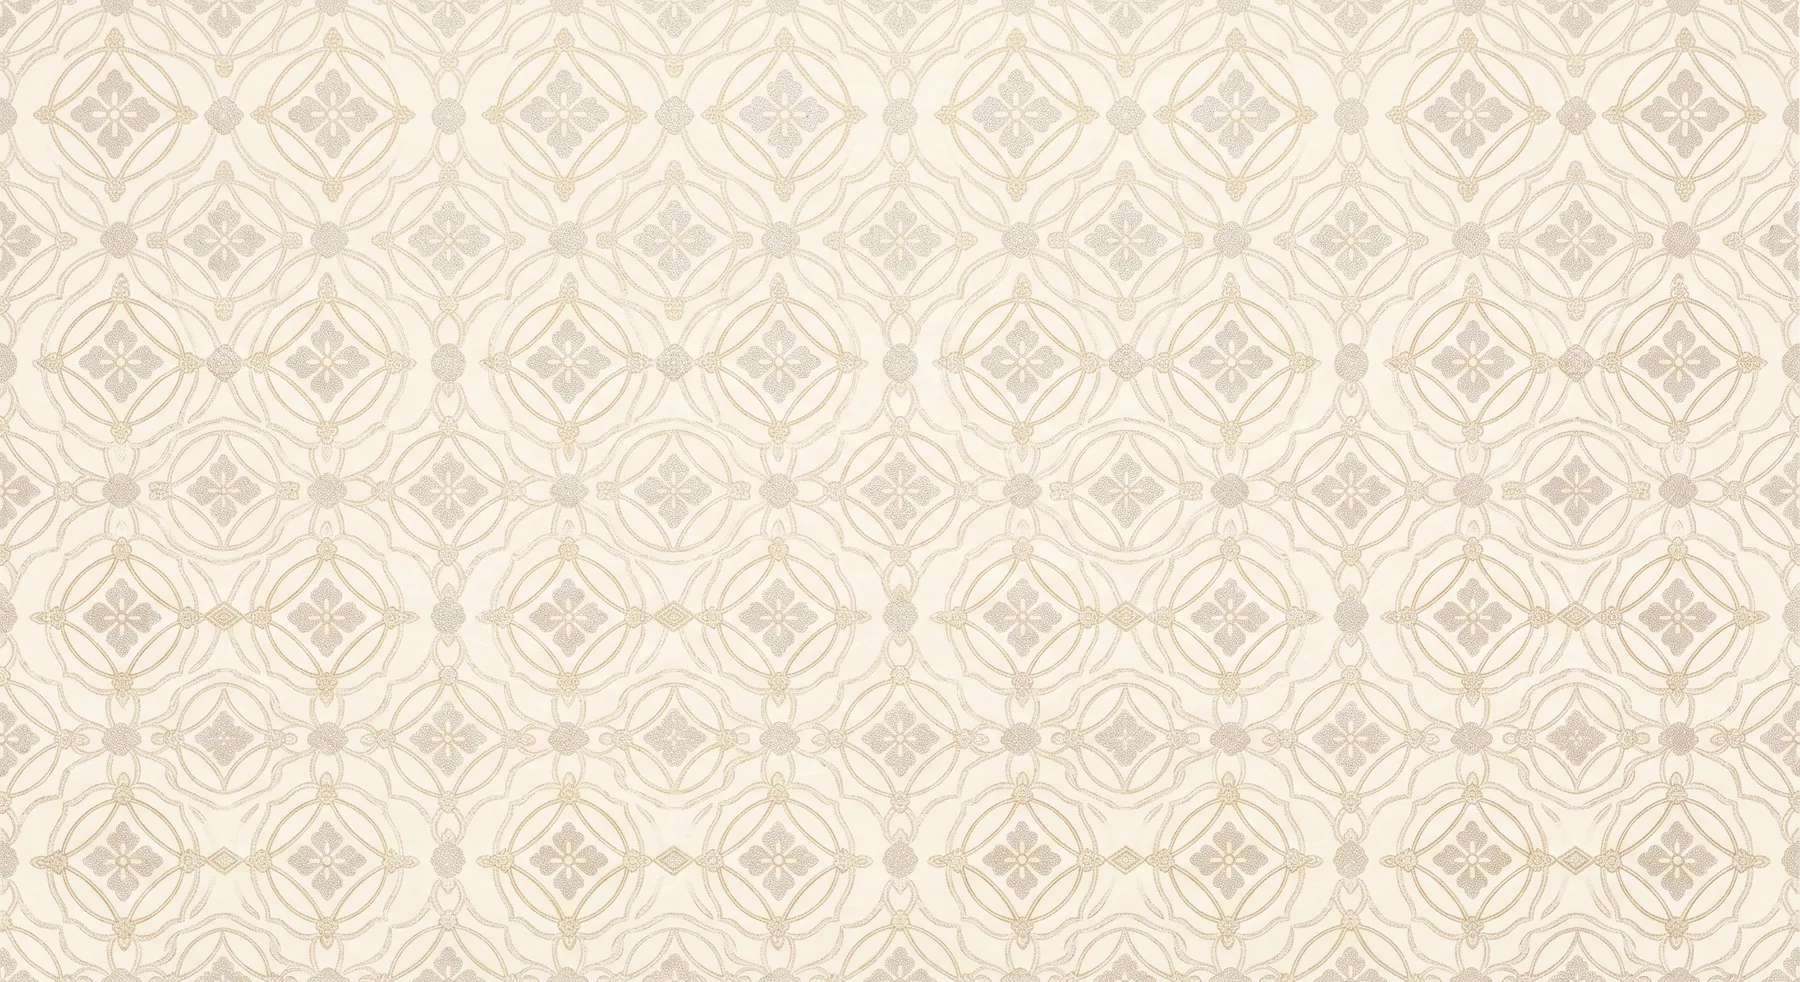
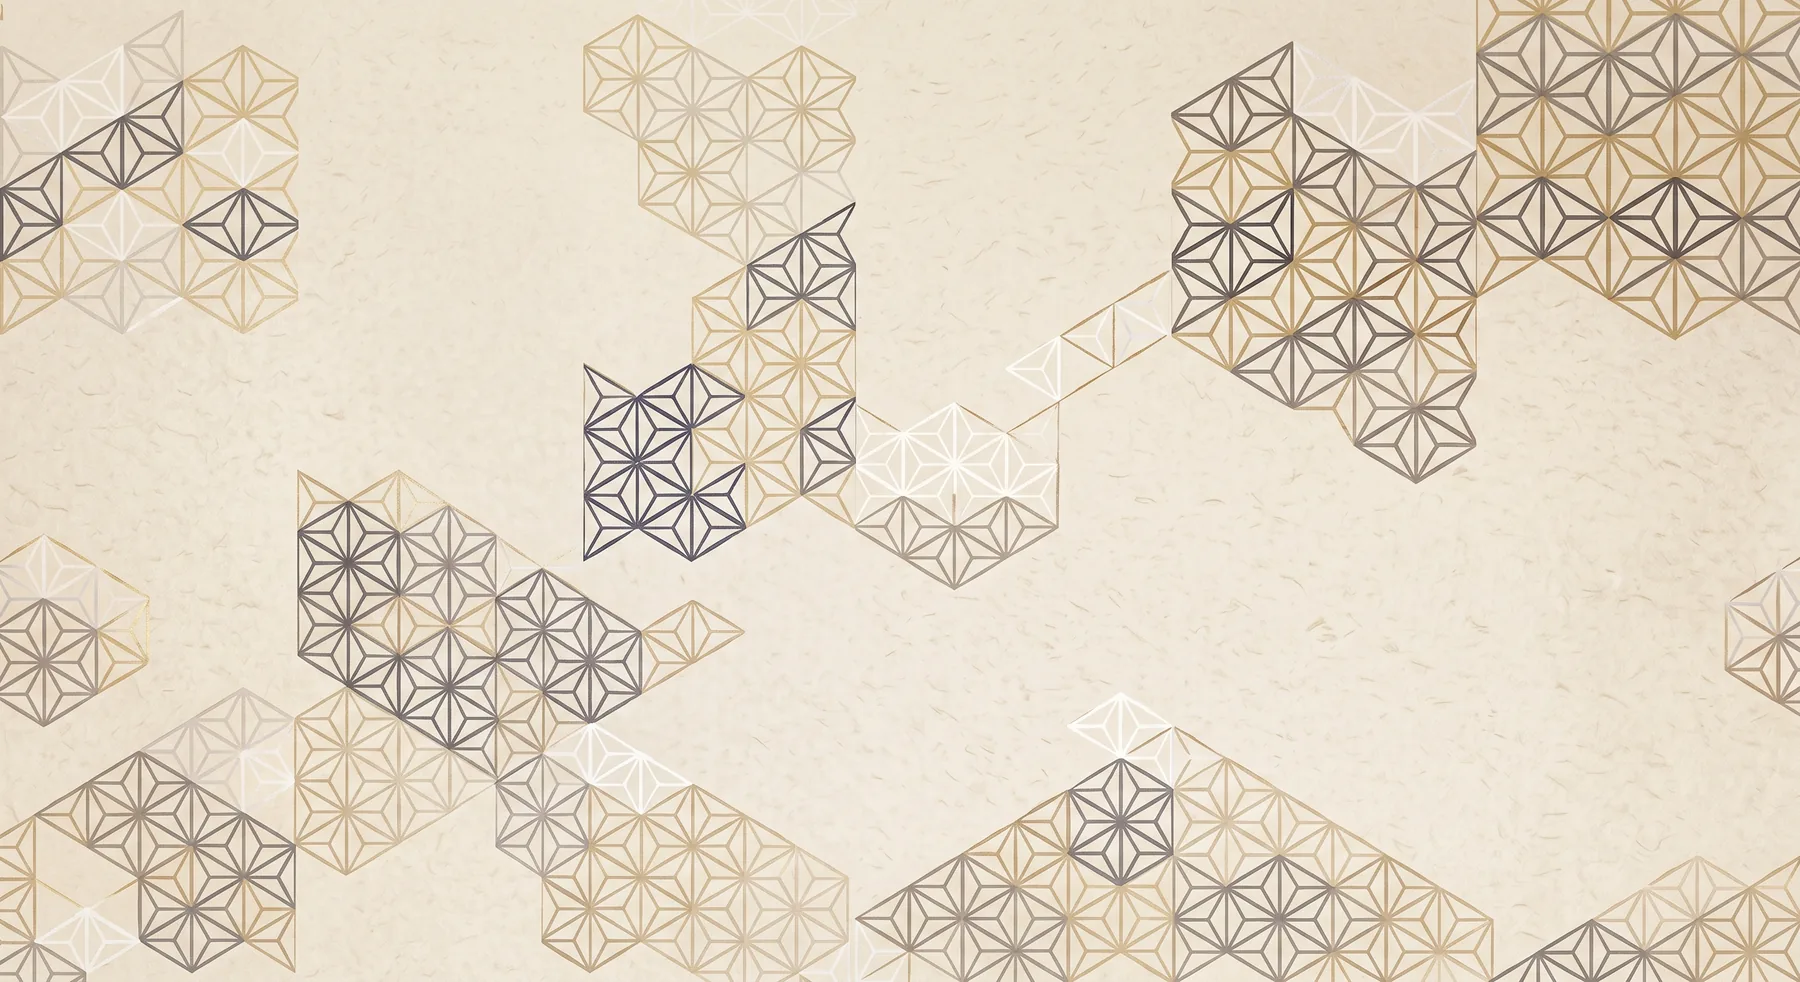
ヒーローに織田木瓜紋・背景を無地の和紙に

diff --git a/src/styles/global.css b/src/styles/global.css
@@ -35,13 +35,6 @@ body {
   -webkit-font-smoothing: antialiased;
 }
 
-/* 金地の和柄（唐紙）を画面いっぱいに一枚敷く。固定・非反復なので継ぎ目が出ない。 */
-body::before {
-  content: ''; position: fixed; inset: 0; z-index: -1;
-  background: url('/images/wa-pattern.webp') center / cover no-repeat;
-  opacity: .45;
-}
-
 a { color: var(--shu); text-decoration: none; }
 a:hover { text-decoration: underline; text-underline-offset: 3px; }
 
